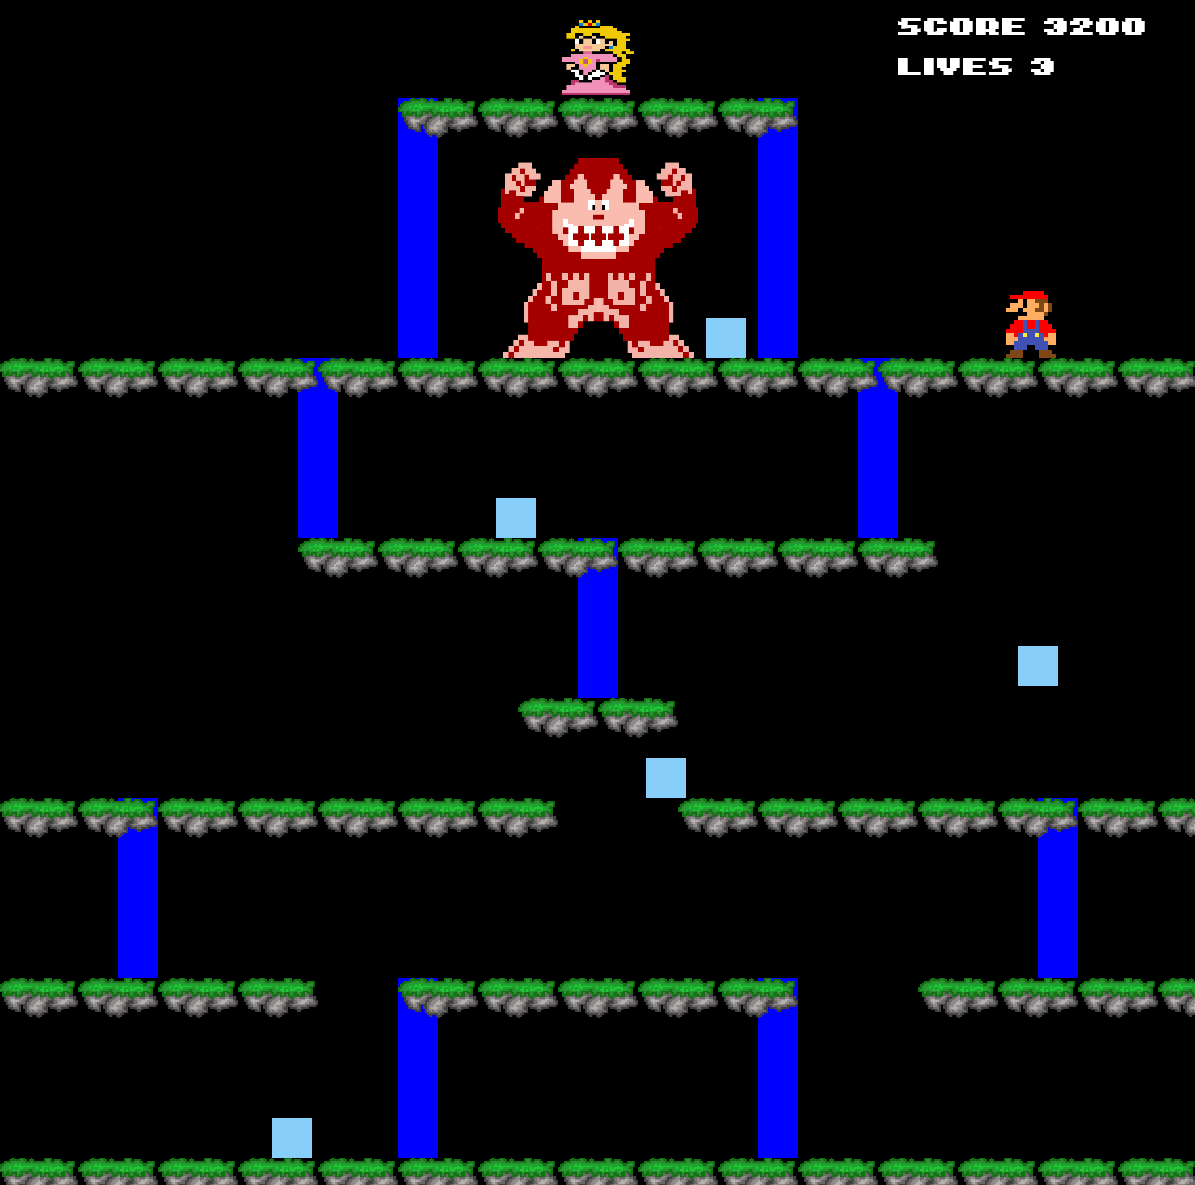
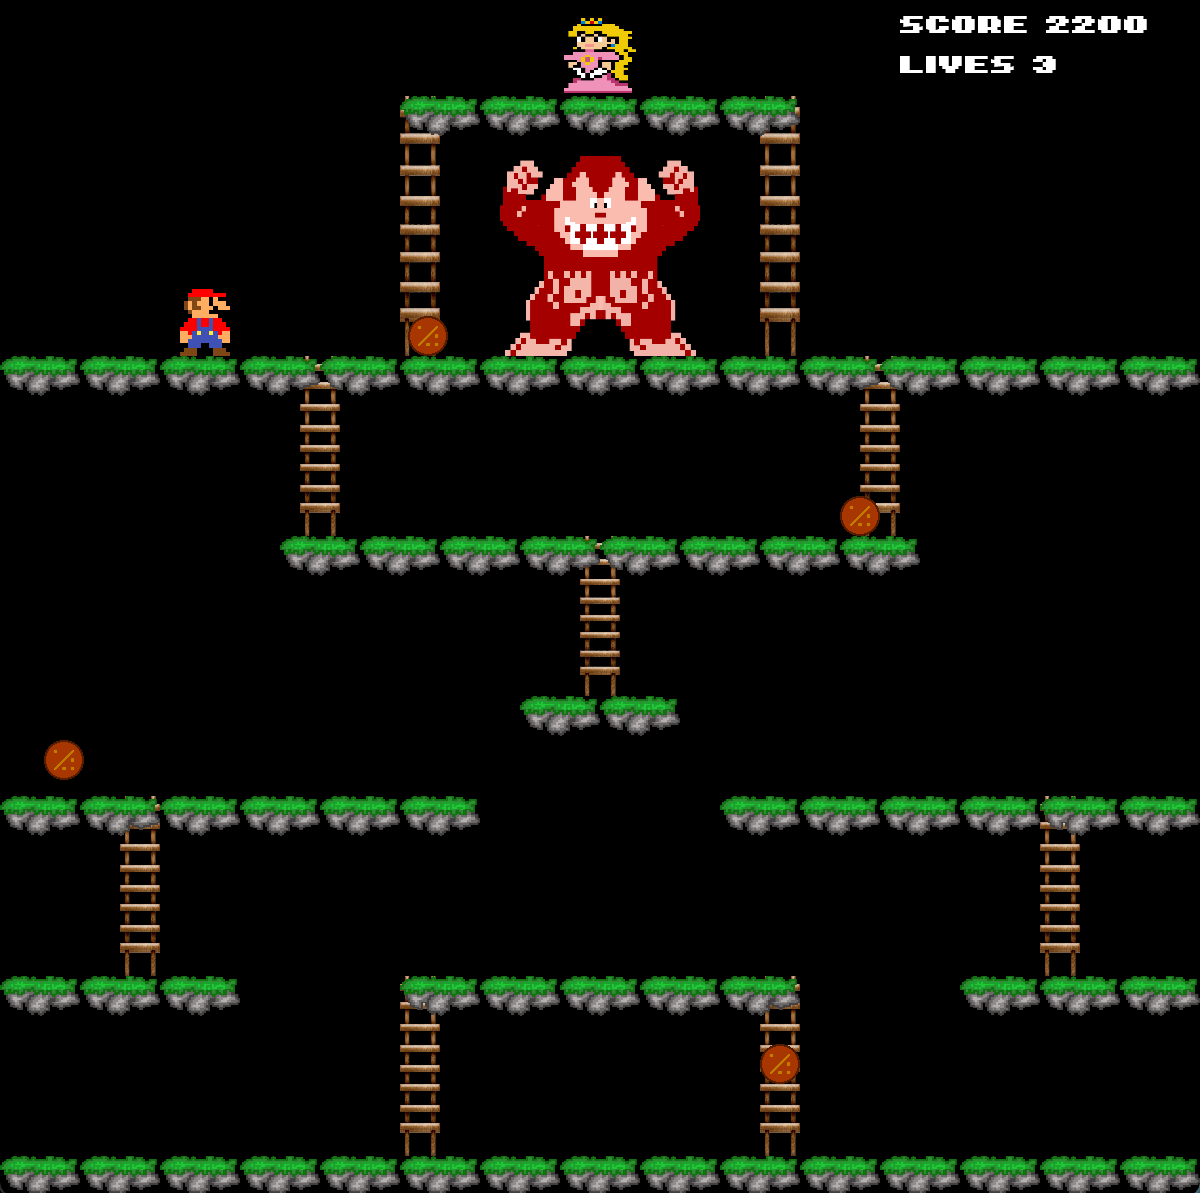
Update README.md

diff --git a/README.md b/README.md
@@ -39,10 +39,11 @@ The Score is decrementing during the time, so if you want the best score you hav
 
 ### Future
 
-1. I want to add better assets. The current status is only due to deadline of school project
+1. I want to add better assets. The current status is only due to deadline of school project.
 2. Add more enemies. In original game you there are more types of enemies and I want to add them.
 3. Add hammer or some kind of weapon. Mario have some kind of weapon in the game to destroying the enemies.
 4. More complex objects. In original game there are more complex objects in the game.
 
 ### Updates
 1. Added a platform texture. I know that is not an original texture, but this is not original game :).
+2. Added a barrel and ladder texture. Complete default textures.
